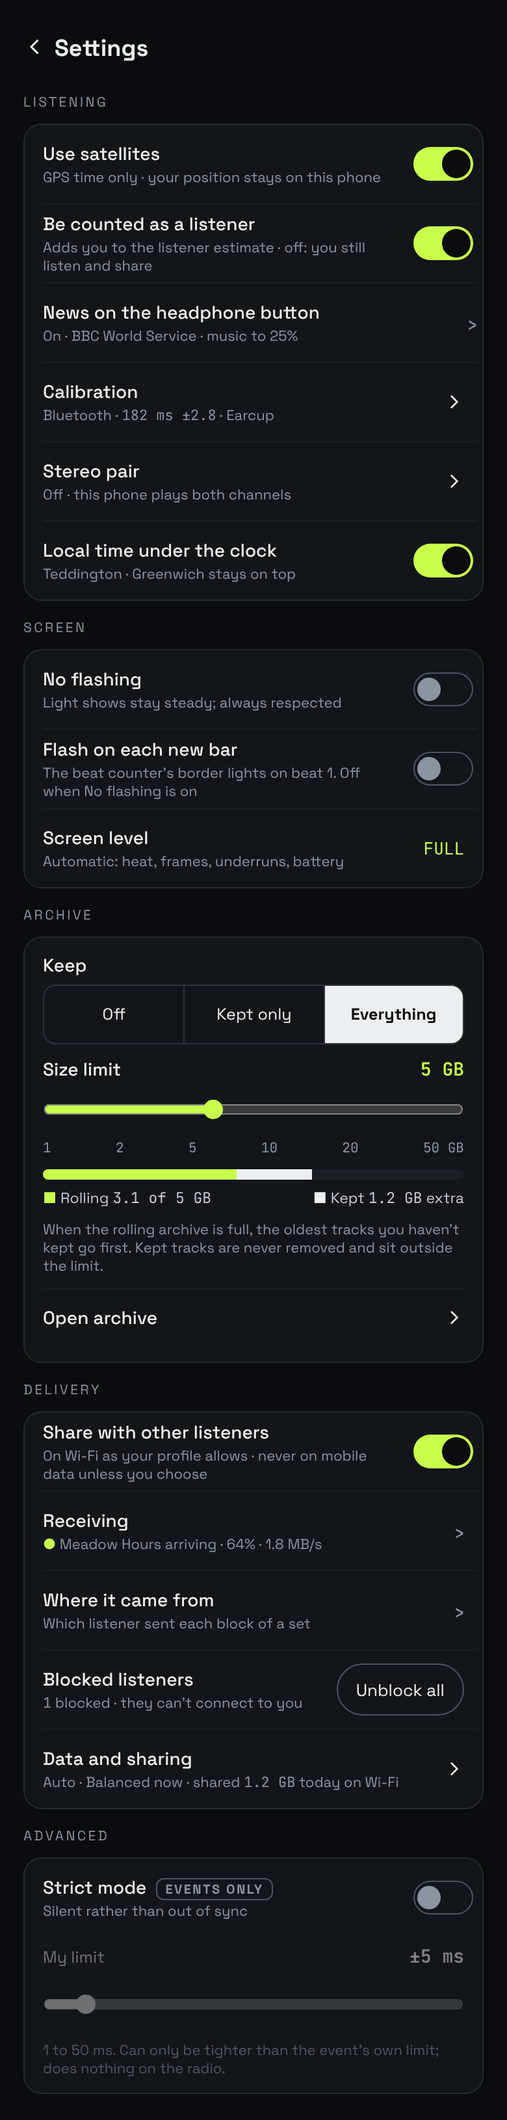
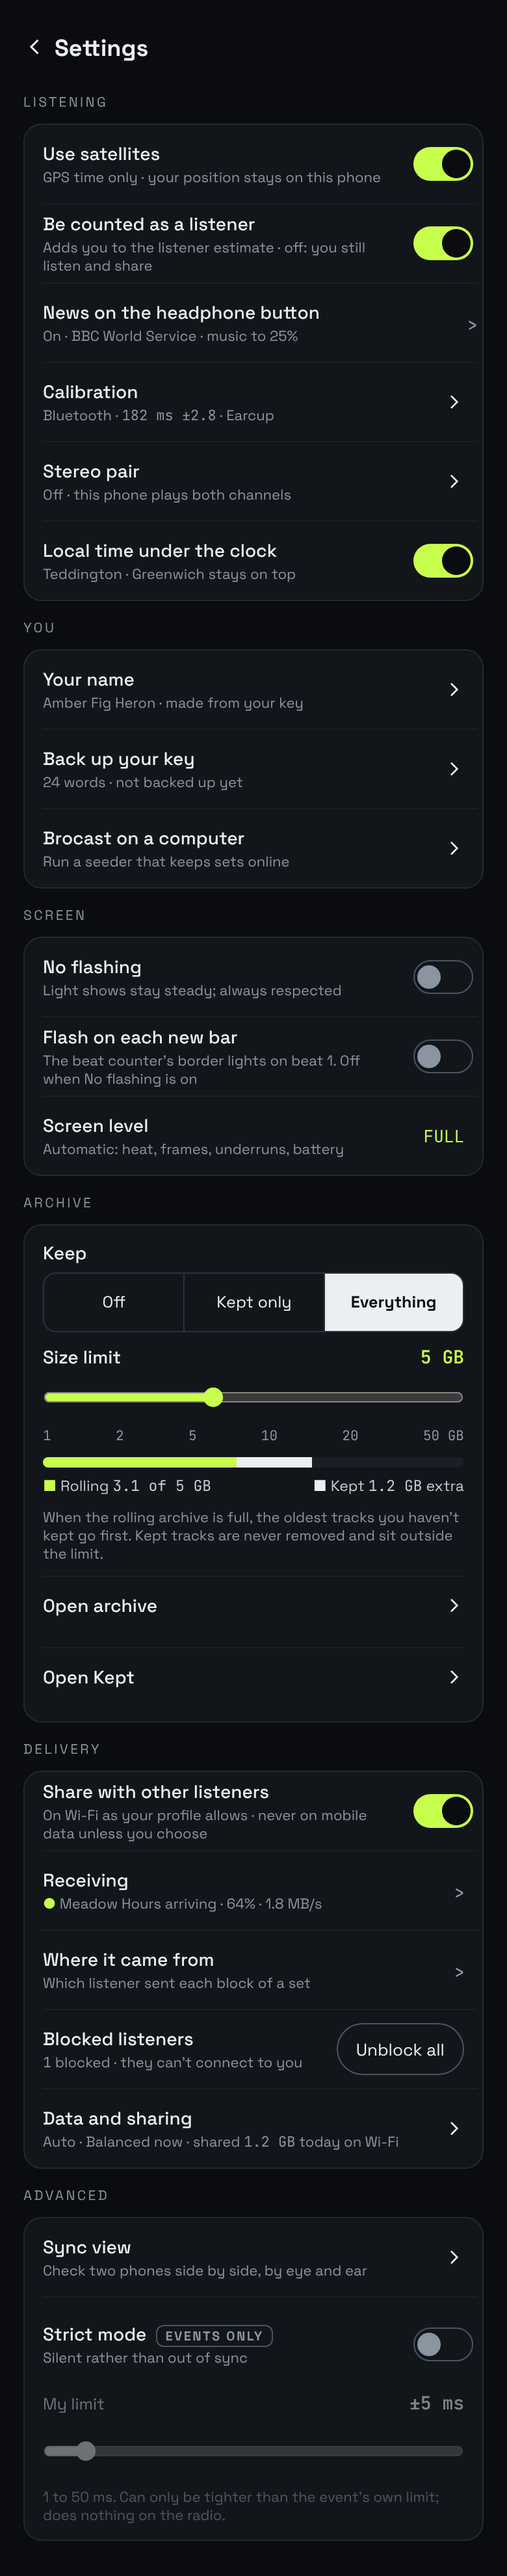
Hand-offs 62-64 from Claude Desktop; work queue reordered (h64+h63, h58 engine, h62 directory, h59/60)

diff --git a/design/ui-spec.md b/design/ui-spec.md
@@ -1,4 +1,4 @@
-# UI spec (hand-off 63)
+# UI spec (hand-off 64)
 
 Field names come from Claude Code's "Fields that exist today" table in `feedback.md`, as of 1 Nov 2026. If one has been renamed since, use the new name.
 
@@ -1325,3 +1325,51 @@ Boards: Settings, Receiving (from Settings), Where it came from · pick a set. S
 | Settings rows | In DELIVERY, under Share with other listeners: **Receiving** (`● Meadow Hours arriving · 64% · 1.8 MB/s`, or `Nothing arriving`) and **Where it came from** (`Which listener sent each block of a set`). 60 px rows with ›. |
 | Receiving screen | Back `Settings`; `PEER-TO-PEER` / `Receiving` + one line. The Receiving box (same as on Now playing, hand-off 57). QUEUED (next sets, `waiting`). ARRIVED RECENTLY: rows with photo, name, flag + artist, `arrived 17:02 · 9 listeners`, a mini block-map preview (10×4) and `91% listeners`; tap → Where it came from. Idle: `Nothing arriving right now` + when the next set is fetched. |
 | Pick a set | Back `Settings`; `Where it came from` + one line; search; ARRIVING (live set, `64% here · still arriving` in station colour), ON THIS PHONE · NEWEST FIRST; same row style; tap → Where it came from for that set. |
+
+## How to reach every screen (hand-off 64, user 15 Nov: "Check to ensure that all screens that we have designed have an intuitive UI pathway")
+Checked every phone board's links on the canvas. Fixed in this hand-off: **bold**. States, rules and spec boards (…States, …Views, Badge/Beat/Buffer states, test cards' rules) aren't screens and are left out.
+
+| Screen | Way in |
+|---|---|
+| Now playing | App start; Back from every top-level screen |
+| Settings | Home header, top left |
+| Time signals | Home header clock icon; tapping the clock or the sync detail on home |
+| Time signals sources sheet | Tap a satellite, the mast or the hourglass on Time signals |
+| Satellites (3D) | Satellites tile on home; Time signals › satellites |
+| Headphone lag (Calibration) | Home header headphones icon; Settings › Calibration |
+| Earcup test, Two-phone test, results | Calibration |
+| Calibration prompts | Shown automatically (new output, drift) |
+| Archive | Home header archive icon; Settings › Open archive |
+| **Kept** | **KEPT pill in the Now playing box; Settings › Archive › Open Kept**; Archive |
+| **Find a station** | Home header **Find**, top right (first start: pulsing) |
+| **Find a station · scan** | **The Scan a code tab** (tabs are now links) |
+| Station page | Home: station name ›; Find a station rows; scan sheet. **Back now returns to Find a station** |
+| **Start a station (4 steps) and Publish** | **Find a station › Your own station › Start a station** (last row). Back links now say Find a station |
+| **Your station · on air** | **Find a station: ON AIR · YOUR STATION row above Now when you run one** |
+| Your station · co-host | Your station › Co-hosts |
+| Set list | Now playing box › SET LIST |
+| Set sheet (Tracks, Keep, Pass it on, Where it came from) | Tap a set in the Set list (and an item in Kept) |
+| Pass it on | Set sheet › Pass it on; the receiver uses **Find › Scan a code** (board text fixed, was "Brocast › Add › Scan") |
+| Receiving box | Home, under the clock, while a set arrives |
+| Receiving (full screen) | Settings › Delivery › Receiving |
+| Where it came from | Receiving box map; Settings › Where it came from (set picker); set sheet; Receiving screen › arrived recently |
+| Block provenance | Tap a square in Where it came from › Proof; Buffer tiles |
+| Swarm | Home: listening count; Mesh card; Receiving box |
+| Swarm · listener details | Tap a listener on Swarm or a row in the Receiving box (second tap) |
+| Co-listener countries, You kept people listening | Cards on Swarm |
+| Buffer | Beat counter AHEAD tile on home |
+| Event log | Latest-event row on home |
+| Nudge control | Auto row on home |
+| Artist photo | Photo in the Now playing box |
+| **Sync view** | **Settings › Advanced › Sync view** (spec said so; the row was missing from the board) |
+| Camera test card | Sync view states › test card |
+| Stereo pair | Settings › Stereo pair |
+| Data and sharing (+ Advanced, Data log) | Settings › Delivery › Data and sharing |
+| News on the button | Settings › News on the headphone button |
+| **Your name, Back up your key, Brocast on a computer** | **Settings › You** (new section). First start runs the Identity flow (Welcome → Back up) |
+| First listen, First use: sharing | First start |
+| Silent reactions | Tray on Now playing under the Mesh card (spec h53; not drawn on the Main board to keep it readable) |
+| Notification, lock screen | System surfaces |
+| Upload page (running order, publish, colours, artists) | The station's web upload page navigation |
+| Stations (old list) | Superseded by Find a station; no longer linked |
+| Test bench | Prototype only; not in the app |

diff --git a/docs/work-queue.md b/docs/work-queue.md
@@ -13,10 +13,12 @@ Context: on 15 Nov, on client-isolated public Wi-Fi, station → Galaxy → Moto
 
 ## Claude Desktop hand-offs, in build order (user, 15 Nov: "do them in whichever order you prefer")
 
-1. **h61 Time signals on the beat.** Phase from flowtime and the beat grid; screen only, smallest. First.
-2. **h58 Where it came from.** Engine: per-set source log (source table + one byte per verified block, kept with the set, never uploaded); then the screen, Receiving box colours, entries from Receiving/Library/Kept. Also gives the Receiving box real senders.
-3. **Find a station** (brief 15 Nov in design/feedback.md; Desktop designing). Engine: the mesh station directory (signed listings on a topic, h60 item 2) and a station QR. New top-right home button, Settings to top left, first-start animation.
-4. **h59 + h60 Your own station.** Largest: station key pair and catalog writer on the phone, on-phone Opus encode, holder counts, edition rules, co-host key handover (encrypted QR, 4-digit code) and fork safety. Needs 3's directory first.
+Done: h61 Time signals on the beat (`deb628a`).
+
+1. **h64 + h63 (screens on data we already have).** h64: a way into every screen (KEPT pill opens Kept, Settings › Archive › Open Kept, Settings › Advanced › Sync view, a new Settings "You" section, fixed back links). h63: the SET LIST button replaces the Library bar on Now playing; the Set list screen (running order from the signed edition, all sets, status on this phone, set sheet). Leave the Receiving and Where-it-came-from rows until 2.
+2. **h58 engine: per-block source log**, then the Where it came from screen, the Receiving screen and the set picker (h63 item 4), and the Receiving box's real senders and colours.
+3. **h62 Find a station.** The engine needs the mesh station directory (signed listings on a topic; h60 item 2) and a `brocast://station/<key>` QR. Header changes (Settings to top left, Find to top right with the first-start pulse), the Find screen with its radar, lists and scan, states, and switching with Undo.
+4. **h59 + h60 Your own station.** The largest: station keys and catalog writer on the phone, Opus encoding on the phone, holder counts, edition rules, co-host key handover and fork safety. Needs 3's directory.
 
 ## Mesh findings from the 15 Nov phone test
 

diff --git a/design/handoff-64.md b/design/handoff-64.md
@@ -1,0 +1,16 @@
+# Hand-off 64: a way into every screen (15 Nov)
+
+User: "Check to ensure that all screens that we have designed have an intuitive UI pathway to actually access the screen"
+
+Spec: ui-spec "How to reach every screen (hand-off 64)" lists every screen and its way in.
+
+Gaps found and fixed:
+1. Kept had no way in: the KEPT pill in the Now playing box now opens Kept; Settings › Archive gets "Open Kept".
+2. Sync view: spec said Settings › Sync view, but the row was missing. Added under Advanced.
+3. Your name / Back up your key / Brocast on a computer: identity was only reachable at first start. New Settings section "You".
+4. Find a station: tabs are links (Scan a code reachable); new "Your own station" section with "Start a station"; when you run one, an "ON AIR · YOUR STATION" row above Now opens Your station.
+5. Start a station / Your station / Station page back links pointed to the old Stations list; now Find a station.
+6. Pass it on and co-host boards said "Brocast › Add › Scan" (no such path); now "Find › Scan a code".
+7. Stations (old list) is superseded by Find a station; Test bench is prototype-only.
+
+Boards changed: Main (and derived), Settings, Find a station (+ states), Station page, Pass it on, all Start a station boards, Your station.
